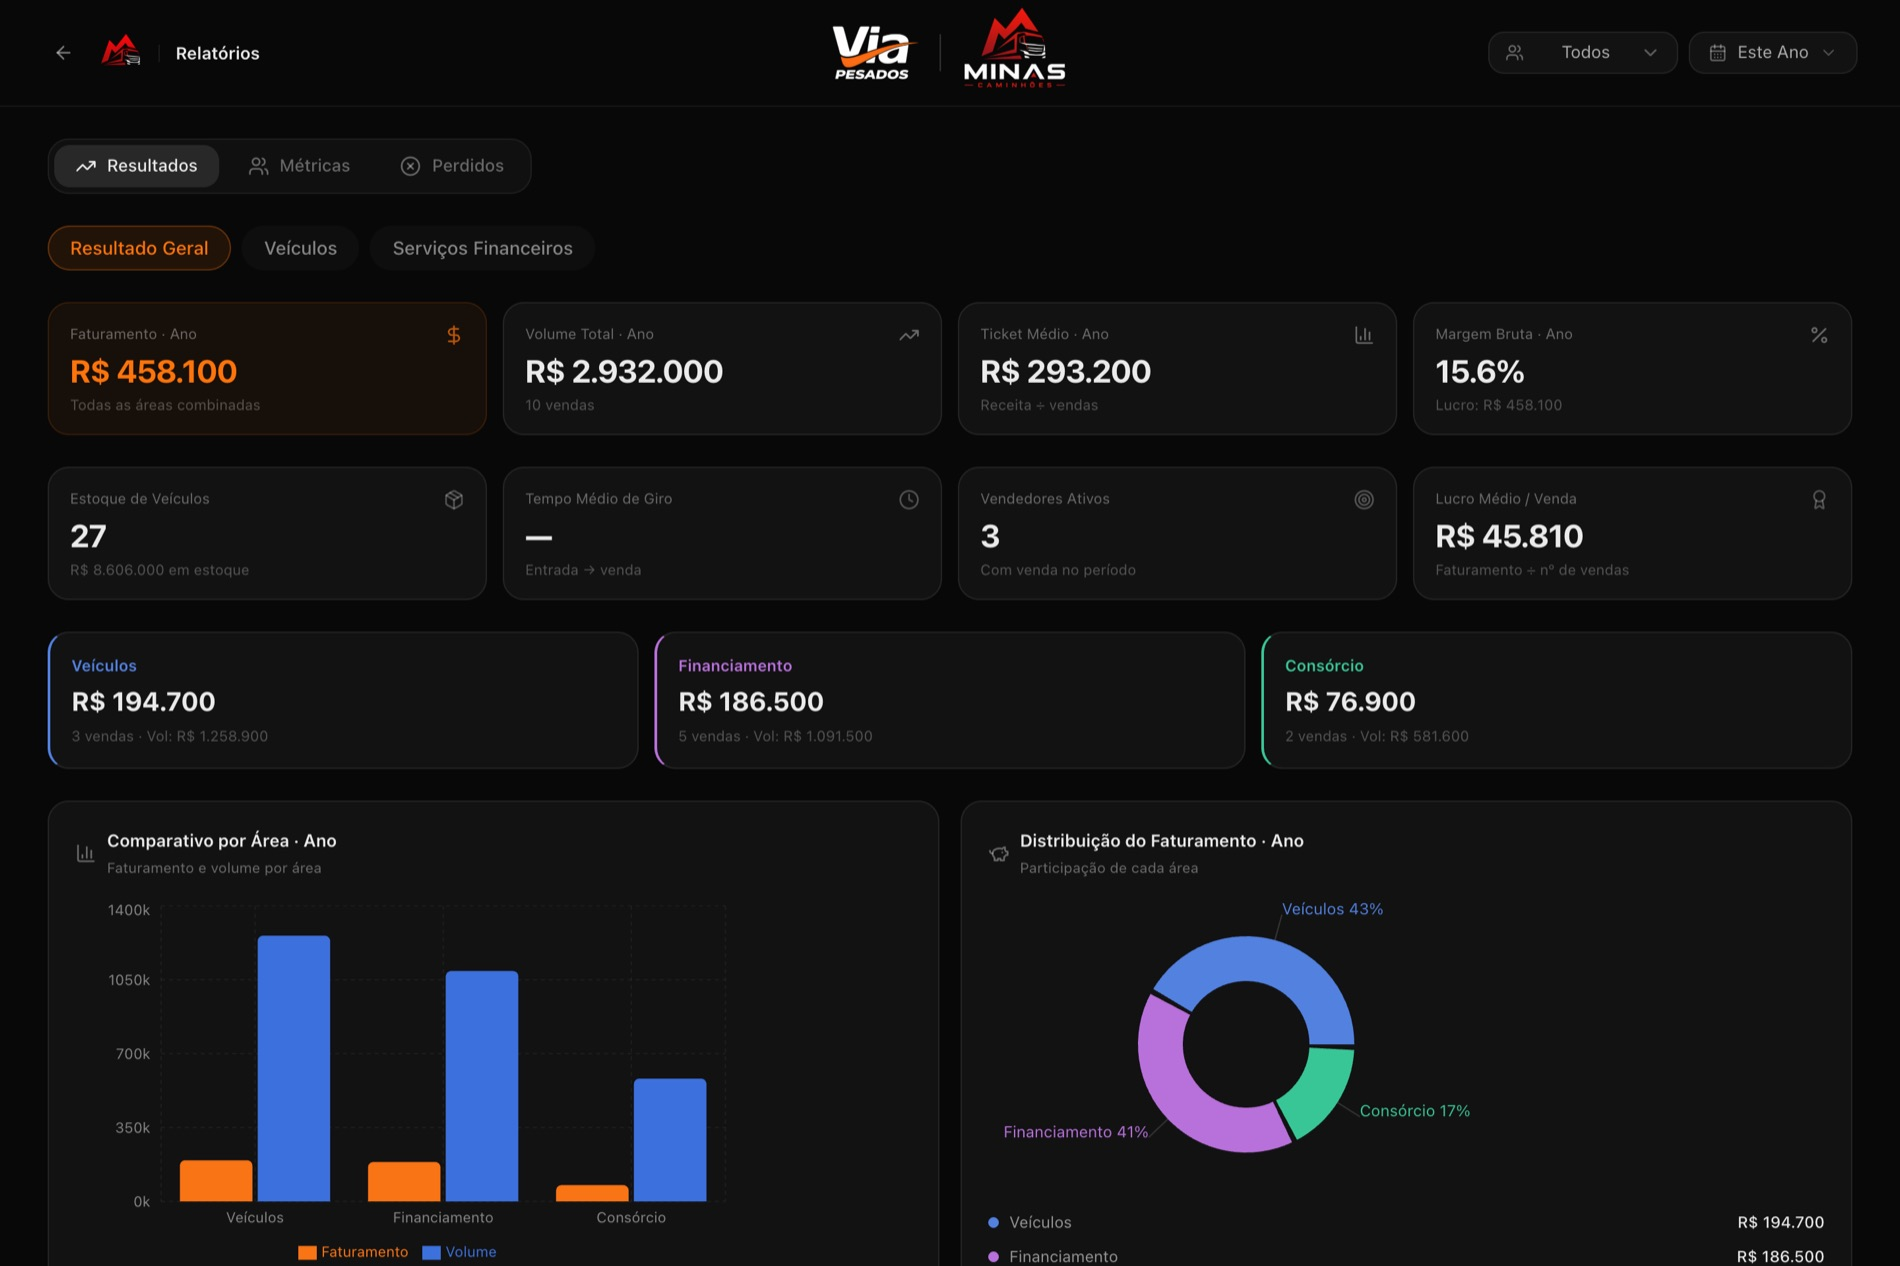
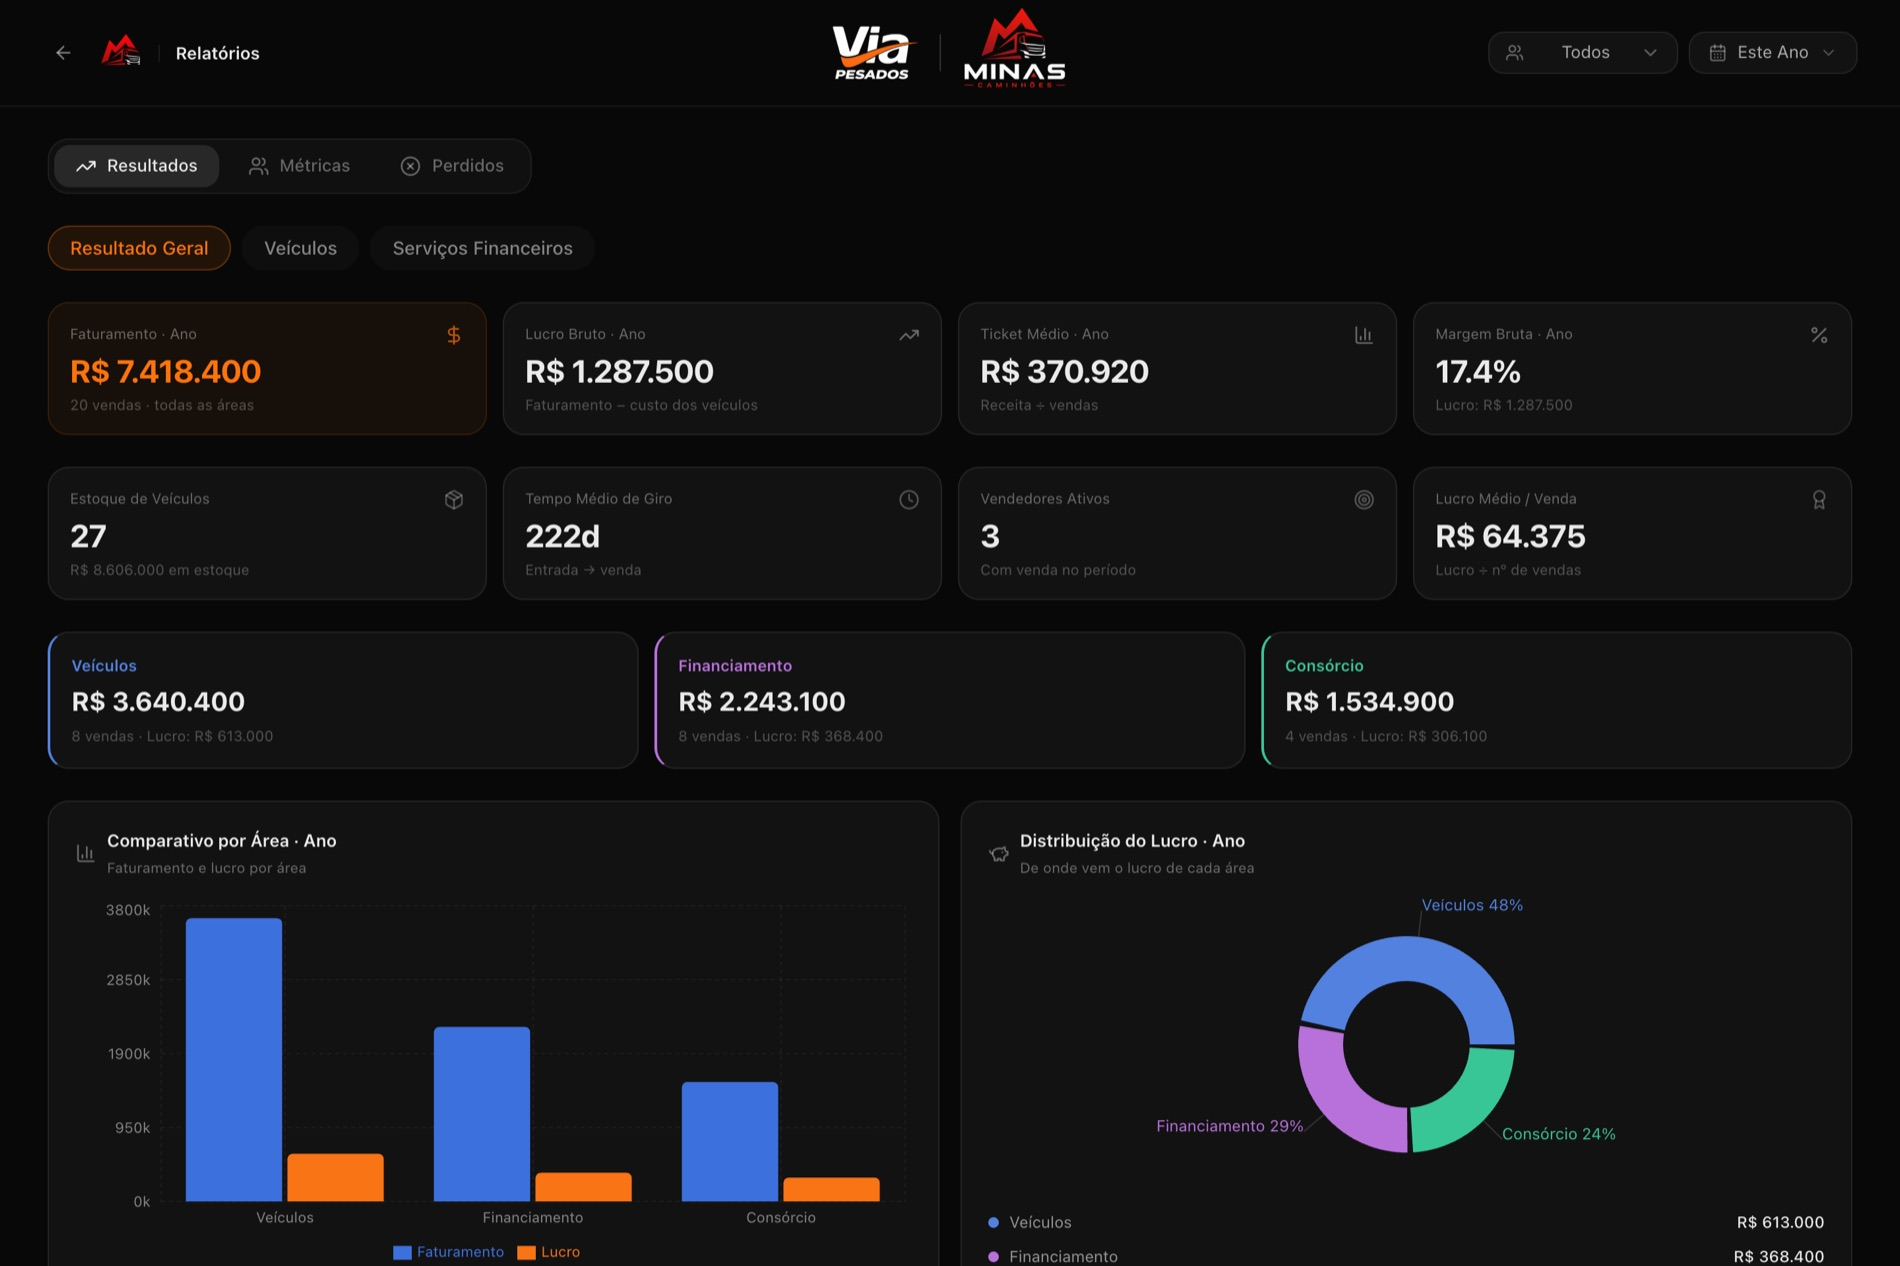
fix: o número da página de vendas era o lucro, não o faturamento
Eu tinha escrito "R$ 458.100 faturado no ano" seguindo o rótulo do painel
de Relatórios — que estava trocado e já foi corrigido no sistema. Aquilo
era o lucro bruto. O faturamento do ano na amostra é R$ 7.418.400.

O print do painel foi recapturado com os rótulos certos: Faturamento
R$ 7.418.400 ao lado de Lucro Bruto R$ 1.287.500, e o Comparativo por
Área agora traz as duas barras nomeadas corretamente.

diff --git a/public/conheca/index.html b/public/conheca/index.html
@@ -702,7 +702,7 @@
     </div>
 
     <div class="numeros">
-      <div class="numero rev"><b data-conta="458100" data-prefixo="R$ ">R$ 0</b><span>faturado no ano — com margem, ticket e volume separados</span></div>
+      <div class="numero rev"><b data-conta="7418400" data-prefixo="R$ ">R$ 0</b><span>faturados no ano — com lucro, margem e ticket separados</span></div>
       <div class="numero rev d1"><b data-conta="27" data-sufixo=" veículos">0 veículos</b><span>em estoque, cada um com dias parado e margem própria</span></div>
       <div class="numero rev d2"><b data-conta="17" data-sufixo=",7%">0,7%</b><span>de margem bruta média — a conta que o Excel nunca fechava</span></div>
       <div class="numero rev d3"><b data-conta="205" data-sufixo=" dias">0 dias</b><span>de giro médio: quanto tempo o seu dinheiro fica no pátio</span></div>
@@ -710,7 +710,7 @@
 
     <div class="painel-grande rev">
       <div class="midia"><img src="/conheca/img/rel-geral.jpg" loading="lazy" alt="Painel de resultados do ano com faturamento, volume, ticket médio e margem" /></div>
-      <p class="legenda-img"><b>Resultado geral do ano</b> — veículos, financiamento e consórcio somados e separados, do jeito que o contador pede.</p>
+      <p class="legenda-img"><b>Resultado geral do ano</b> — faturamento e lucro lado a lado, por área, do jeito que o contador pede.</p>
     </div>
 
     <div class="perguntas">
